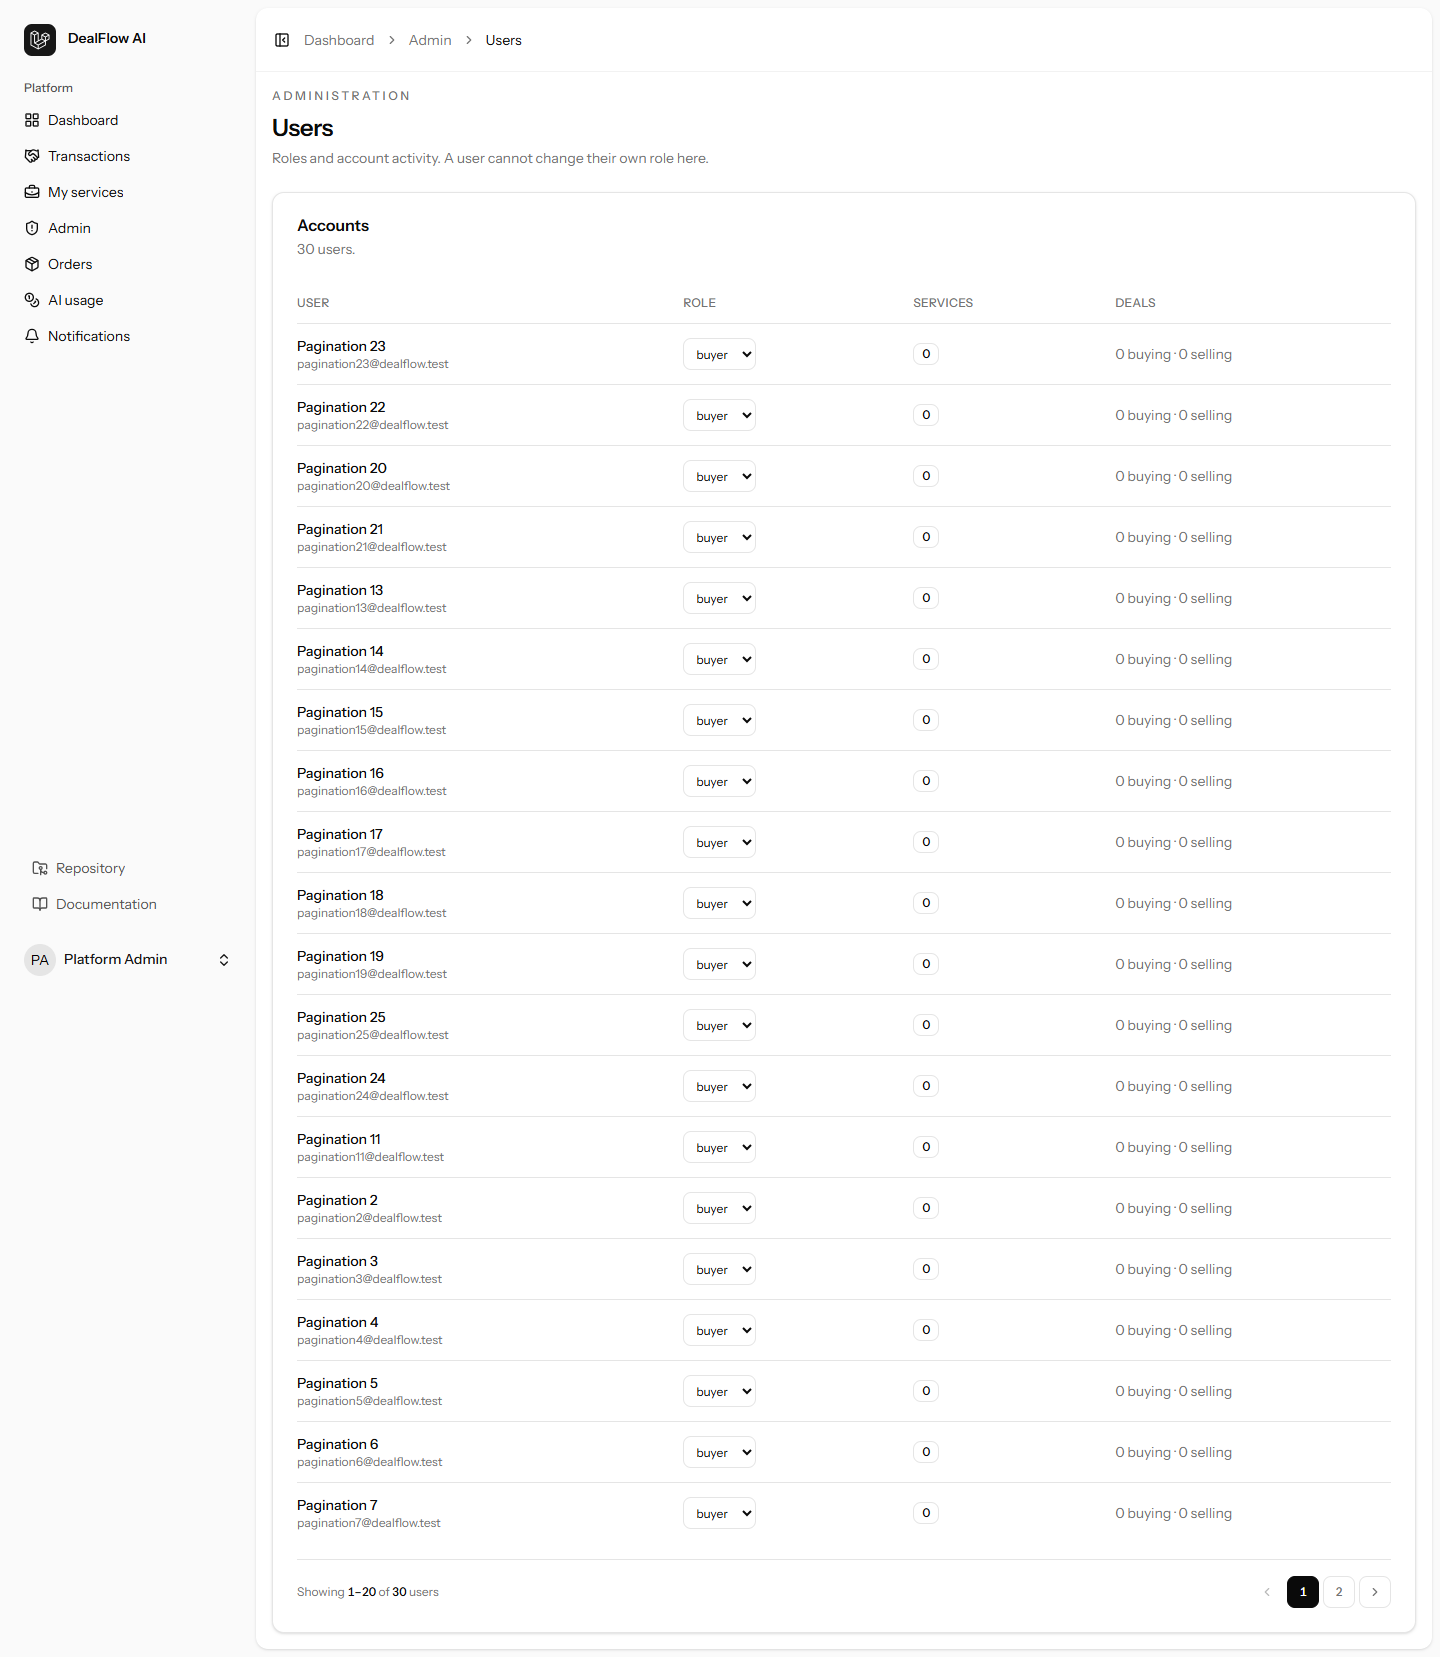
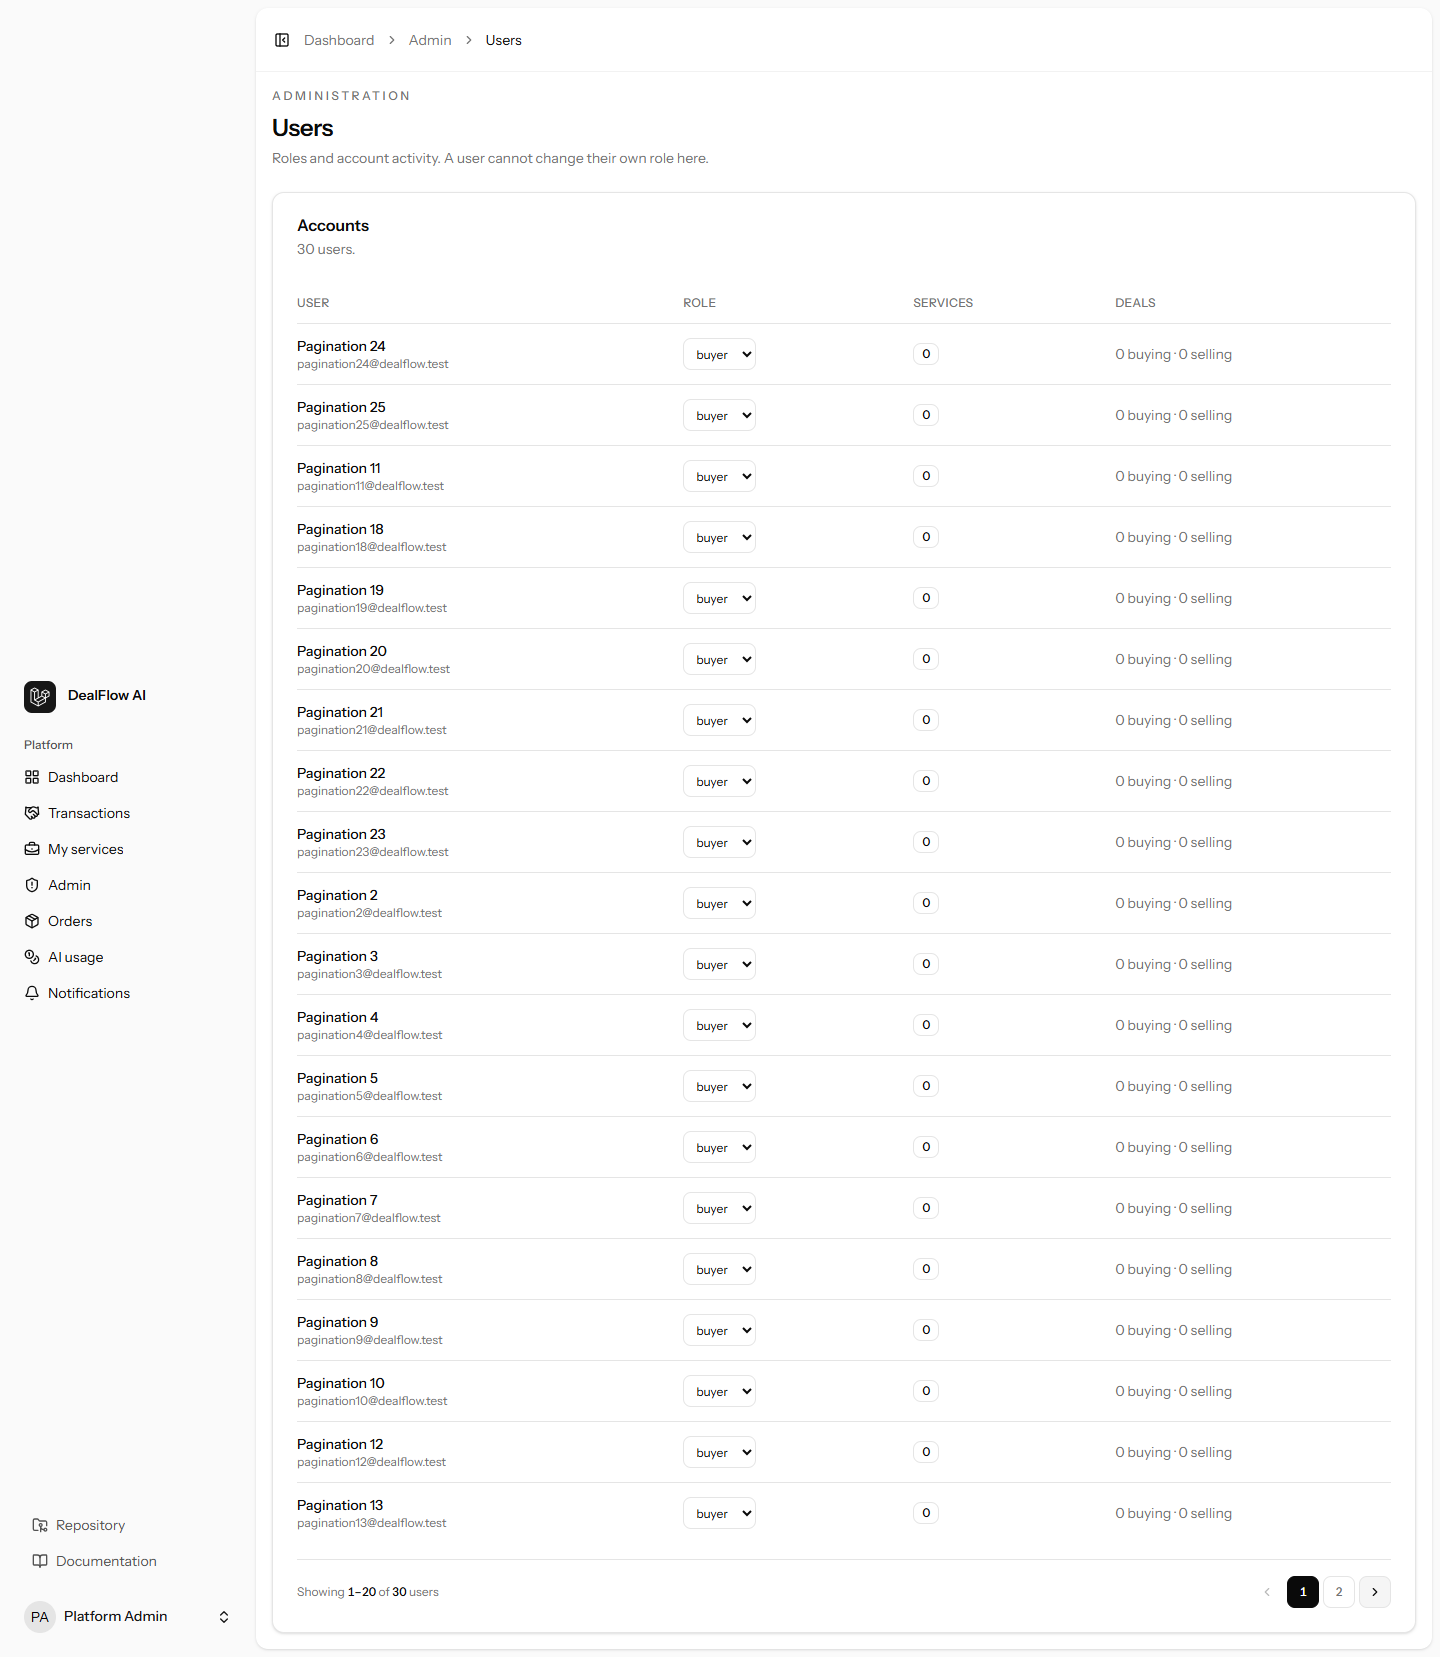
fix: harden pagination accessibility and marketplace heading outline

diff --git a/resources/js/components/pagination.tsx b/resources/js/components/pagination.tsx
@@ -6,7 +6,7 @@ import type { Paginated } from '@/types';
 type PaginationLink = Paginated<unknown>['links'][number];
 
 const base =
-    'inline-flex h-8 min-w-8 items-center justify-center gap-1 rounded-md border px-2 text-xs font-medium tabular-nums transition-colors';
+    'inline-flex h-10 min-w-10 items-center justify-center gap-1 rounded-md border px-2 text-xs font-medium tabular-nums transition-colors focus-visible:outline-none focus-visible:ring-2 focus-visible:ring-ring focus-visible:ring-offset-2 focus-visible:ring-offset-background sm:h-8 sm:min-w-8';
 const idle =
     'border-border text-muted-foreground hover:bg-muted hover:text-foreground';
 const active = 'border-foreground bg-foreground text-background';

diff --git a/resources/js/components/marketplace/service-card.tsx b/resources/js/components/marketplace/service-card.tsx
@@ -11,7 +11,7 @@ export function ServiceCard({ service }: { service: MarketplaceService }) {
                     {service.category?.name ?? 'Service'}
                 </span>
                 {service.negotiation_enabled && (
-                    <span className="inline-flex items-center gap-1 rounded-full border border-border px-2 py-0.5 text-[10px] text-muted-foreground">
+                    <span className="inline-flex items-center gap-1 rounded-full border border-border px-2 py-0.5 text-[11px] text-muted-foreground">
                         <Handshake className="size-3" aria-hidden />
                         Negotiable
                     </span>

diff --git a/resources/js/pages/marketplace/index.tsx b/resources/js/pages/marketplace/index.tsx
@@ -191,6 +191,8 @@ export default function MarketplaceIndex({
                     )}
                 </div>
 
+                <h2 className="sr-only">Services</h2>
+
                 {services.data.length === 0 ? (
                     <div className="mt-8 rounded-xl border border-dashed p-10 text-center">
                         <p className="font-medium">No services found</p>
